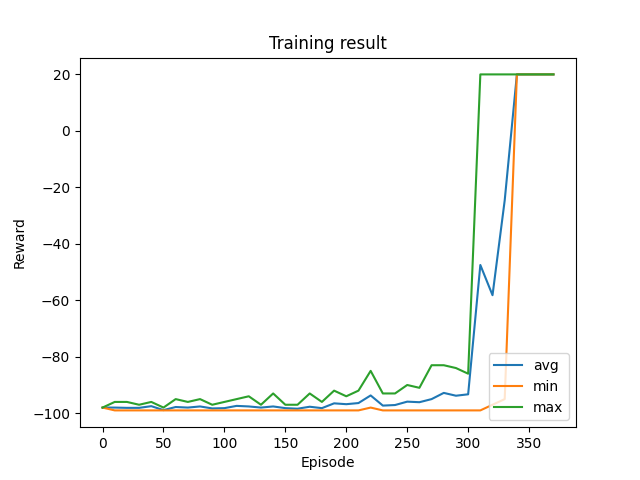
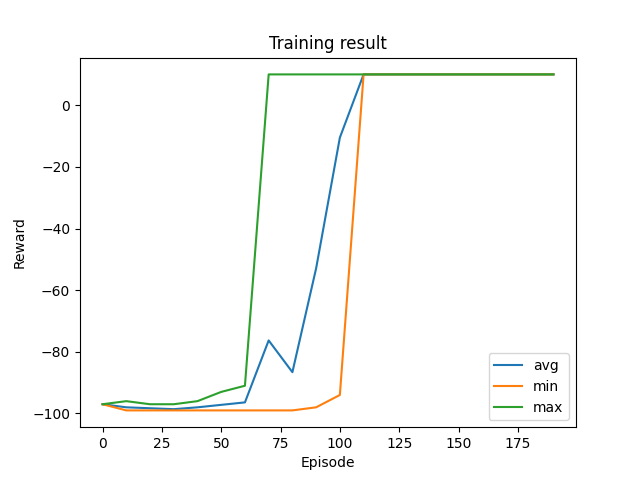
updated

diff --git a/complex_1DOF_env/complex_1DOF_env.py b/complex_1DOF_env/complex_1DOF_env.py
@@ -22,15 +22,15 @@ class complex_1DOF_env(Env):
 
         # truncation
         self.steps = 0
-        self.max_episode_steps = 120
+        self.max_episode_steps = 60
 
         # low states
         low = np.array(
             [
-                self.init_freq,     # frequency (Hz)
-                1,                  # amplitude (m/s²)
-                0,                  # energy (J)
-                0,                  # total energy (J)
+                0,                  # frequency (Hz)
+                0,                  # amplitude (m/s²)
+                0.4e-5,                  # energy (J)
+                0.4e-5,                  # total energy (J)
             ],
             dtype=np.float32,
         )
@@ -38,10 +38,10 @@ class complex_1DOF_env(Env):
         # high states
         high = np.array(
             [
-                120,     # frequency (Hz)
-                6,                  # amplitude (m/s²)
-                100,                # energy (J)
-                100                 # total energy (J)
+                7,                   # frequency (Hz)
+                7,                   # amplitude (m/s²)
+                0.76e-4,                   # energy (J)
+                0.76e-4                    # total energy (J)
             ],
             dtype=np.float32,
         )
@@ -95,12 +95,18 @@ class complex_1DOF_env(Env):
             self.state = np.array([new_Freq, self.amplitude, total_Energy, self.current_state[3]], dtype=np.float32)
             terminated = False
             reward = 0
-        # info 
-        info = {}
         
         # check if truncated
         self.steps += 1
         truncated = self.steps >= self.max_episode_steps
+        
+        # reset steps if terminated or truncated
+        done = terminated or truncated
+        if done:
+            self.steps = 0
+
+        # info 
+        info = {}
 
         # return
         return np.array(self.state, dtype=np.float32), reward, terminated, truncated, info

diff --git a/simple_1DOF_env/simple_1DOF_env.py b/simple_1DOF_env/simple_1DOF_env.py
@@ -23,14 +23,14 @@ class simple_1DOF_env(Env):
 
         # truncation
         self.steps = 0
-        self.max_episode_steps = 20
+        self.max_episode_steps = 10
 
         # low states
         low = np.array(
             [
-                self.init_freq,     # frequency (Hz)
-                1,                  # amplitude (m/s²)
-                0                   # energy (J)
+                0,              # frequency (Hz)
+                0,              # amplitude (m/s²)
+                0.96e-9       # energy (J)
             ],
             dtype=np.float32,
         )
@@ -38,9 +38,9 @@ class simple_1DOF_env(Env):
         # high states
         high = np.array(
             [
-                self.last_freq,     # frequency (Hz)
-                6,                  # amplitude (m/s²)
-                100                 # energy (J) 
+                7,              # frequency (Hz)
+                7,              # amplitude (m/s²)
+                0.16e-7       # energy (J) 
             ],
             dtype=np.float32,
         )

diff --git a/complex_1DOF_env/Q_learning.py b/complex_1DOF_env/Q_learning.py
@@ -9,20 +9,20 @@ env.reset()
 
 LEARNING_RATE = 0.1
 DISCOUNT = 0.99
-EPISODES = 10
+EPISODES = 200
 
 SHOW_EVERY = 10
 
-DISCRETE_OS_SIZE = [6,1,1716,1716]
+DISCRETE_OS_SIZE = [1] * len(env.observation_space.high)
 discrete_os_win_size = (env.observation_space.high - env.observation_space.low) / DISCRETE_OS_SIZE
 
 epsilon = 1
 START_EPSILON_DECAYING = 1
-END_EPSILON_DECAYING = 1000
-# epsilon_decay_value = epsilon / (END_EPSILON_DECAYING - START_EPSILON_DECAYING)
-epsilon_decay_value = 0.01
+END_EPSILON_DECAYING = 100
+epsilon_decay_value = epsilon / (END_EPSILON_DECAYING - START_EPSILON_DECAYING)
 
-q_table = np.random.uniform(low=-100, high=1, size=(DISCRETE_OS_SIZE + [env.action_space.n]))
+
+q_table = np.random.uniform(low=-2, high=0, size=(DISCRETE_OS_SIZE + [env.action_space.n]))
 
 ep_rewards = []
 aggr_ep_rewards = {'ep': [], 'avg': [], 'avg': [], 'min': [], 'max': []}

diff --git a/simple_1DOF_env/Q_learning.py b/simple_1DOF_env/Q_learning.py
@@ -9,18 +9,17 @@ env.reset()
 
 LEARNING_RATE = 0.1
 DISCOUNT = 0.99
-EPISODES = 380
+EPISODES = 200
 
 SHOW_EVERY = 10
 
-DISCRETE_OS_SIZE = [20,20,20]
+DISCRETE_OS_SIZE = [1] * len(env.observation_space.high)
 discrete_os_win_size = (env.observation_space.high - env.observation_space.low) / DISCRETE_OS_SIZE
 
 epsilon = 1
 START_EPSILON_DECAYING = 1
-END_EPSILON_DECAYING = 1000 
-# epsilon_decay_value = epsilon / (END_EPSILON_DECAYING - START_EPSILON_DECAYING)
-epsilon_decay_value = 0.003
+END_EPSILON_DECAYING = EPISODES / 2 
+epsilon_decay_value = epsilon / (END_EPSILON_DECAYING - START_EPSILON_DECAYING)
 
 q_table = np.random.uniform(low=-2, high=0, size=(DISCRETE_OS_SIZE + [env.action_space.n]))
 

diff --git a/complex_1DOF_env/dqn.py b/complex_1DOF_env/dqn.py
@@ -56,8 +56,8 @@ class ReplayMemory(object):
 BATCH_SIZE = 256
 GAMMA = 0.99
 EPS_START = 1.0
-EPS_END = 0.02
-EPS_DECAY = 1000
+EPS_END = 0.0005
+EPS_DECAY = 10000
 TAU = 0.005
 LR = 1e-3
     
@@ -186,9 +186,9 @@ def optimize_model():
     optimizer.step()
 
 if torch.cuda.is_available():
-    num_episodes = 50000
+    num_episodes = 20000
 else:
-    num_episodes = 50000
+    num_episodes = 20000
 
 start = time.time()
 for i_episode in range(num_episodes):
